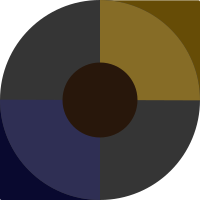
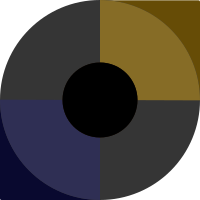
*** UPDATED *** general updates to website

Changed region(s): [[0.3, 0.3, 0.69, 0.69]]

diff --git a/php/dbm_functions.php b/php/dbm_functions.php
@@ -5,13 +5,13 @@
  * Purpose:		Function to dymamically fill in page related meta data
  * Author:		Mark Fletcher
  * Date:			27.11.2018
- * 
- * Input:			
+ *
+ * Input:
  * 	$_SERVER['PHP_SELF'] - current page URL
- * 
- * Output:		
+ *
+ * Output:
  * 	pageName
- * 
+ *
  * Notes:
  *
  * ==================================================================
@@ -20,11 +20,11 @@ function metaFill($filter) {
 	global $pdo;
 	// use pageName() function to set $pageName
 	$pageName = pageName($_SERVER['PHP_SELF']);
-	
-	// MySQL query string 
+
+	// MySQL query string
 	$sql = "SELECT id, title, pageName, description FROM dbm_metatext WHERE pageName = '".$pageName."'";
-				
-	// send query to database		
+
+	// send query to database
 	if ($result = $pdo->query($sql)) :
 		// iterate over result array
 		while($row = $result->fetch()) :
@@ -40,20 +40,20 @@ function metaFill($filter) {
  * Purpose:		function to sitmap list
  * Author:		Mark Fletcher
  * Date:			06.08.2019
- * 
- * Input:			
+ *
+ * Input:
  * $data	- a selected data array
- * 
- * Output:		
+ *
+ * Output:
  * 	Returns $list - a fully constructed HTML list
- * 
+ *
  * Notes:
  *
  * ==================================================================
 */
 function create_serviceslist($data) {
 	$services ='';
-	foreach($data as $service) { 	
+	foreach($data as $service) {
   	$services .= '<li>'.$service.'</li>'.PHP_EOL;
 	}
   return $services;
@@ -65,15 +65,15 @@ function create_serviceslist($data) {
  * Purpose:		function to create navbars
  * Author:		Mark Fletcher
  * Date:			19.04.2019
- * 
- * Input:			
+ *
+ * Input:
  * $navbarData	- a selected data array
  * $separator	- e.g. '|', ' ', ':'
- * 
- * Output:		
+ *
+ * Output:
  * 	Returns $newNavbar - a fully constructed navigation bar string
  *											 with current page highlighting
- * 
+ *
  * Notes:
  *
  * ==================================================================
@@ -113,7 +113,7 @@ function create_navbar($navbarData, $separator) {
   		$newNavbar .= '<a href="'.$url.'" title="link to '.strtolower($link).' page">'.$navLink.'</a>'.PHP_EOL;
     }
   }
-  return $newNavbar; 
+  return $newNavbar;
 }
 
 /*
@@ -122,20 +122,20 @@ function create_navbar($navbarData, $separator) {
  * Purpose:		function to sitmap list
  * Author:		Mark Fletcher
  * Date:			06.08.2019
- * 
- * Input:			
+ *
+ * Input:
  * $data	- a selected data array
- * 
- * Output:		
+ *
+ * Output:
  * 	Returns $list - a fully constructed HTML list
- * 
+ *
  * Notes:
  *
  * ==================================================================
 */
 function create_sitemap($data) {
 	$sitemap ='';
-	foreach($data as $page => $url) { 	
+	foreach($data as $page => $url) {
   	$sitemap .= '<li><a href="'.$url.'" title="open '.$page.' page">'.$page.' page</a></li>'.PHP_EOL;
 	}
   return $sitemap;
@@ -153,7 +153,7 @@ function create_sitemap($data) {
  *
  * Output:
  * 	pageName
- * 
+ *
  * Notes:
  *
  * ==================================================================
@@ -195,6 +195,31 @@ function dateStamp($date) {
 }
 
 /*
+ *******************************************************************************
+ * File:		copyright()
+ * Purpose:	function to create copyright notice for webpages
+ *
+ * Author:	Mark Fletcher
+ * Date:		18.04.2018
+ *
+ * Notes:
+ *
+ * Revision:
+ *		18.04.2018	1st issue.
+ *
+ *******************************************************************************
+*/
+//create a copyright notice
+function copyright($company, $year) {
+	if ($year == date('Y')) {
+		$date = $year;
+	} else {
+		$date = $year.' - '.date('Y');
+	}
+	echo '&copy; '.$date.' '.$company.'. All rights reserved.';
+}
+
+/*
  * ===================================================================
  * Function:	pricing()
  * Purpose:		Create dynamic pricing from dbmServices database table
@@ -203,10 +228,10 @@ function dateStamp($date) {
  *
  * Input:
  * 	$pricingArr - database data from dbmServices table
- * 
+ *
  * Output:
  * 	Returns pricing blocks
- * 
+ *
  * Notes:
  *
  * ==================================================================
@@ -227,13 +252,13 @@ function pricing($pricingArr) {
  * Purpose:		Check budget value and display 'N/A' if value is zero
  * Author:		Mark Fletcher
  * Date:			15.05.2018
- * 
- * Input:			
- * 	$value - 'budget' data from caseStudies table 
- * 
- * Output:		
+ *
+ * Input:
+ * 	$value - 'budget' data from caseStudies table
+ *
+ * Output:
  * 	$budget
- * 
+ *
  * Notes:
  *
  * ==================================================================
@@ -253,13 +278,13 @@ function budgetZero($value) {
  * Purpose:		Convert date to 'dd-mm-yyyyy' format
  * Author:		Mark Fletcher
  * Date:			15.05.2018
- * 
- * Input:			
- * 	$dbDate - 'date' data from caseStudies table 
- * 
- * Output:		
+ *
+ * Input:
+ * 	$dbDate - 'date' data from caseStudies table
+ *
+ * Output:
  * 	$newDate
- * 
+ *
  * Notes:
  *
  * ==================================================================
@@ -276,13 +301,13 @@ function convertDate($dbDate) {
  * Purpose:		Convert date to 'dd-mm-yyyyy' format
  * Author:		Mark Fletcher
  * Date:			15.05.2018
- * 
- * Input:			
- * 	$dbDate - 'date' data from caseStudies table 
- * 
- * Output:		
+ *
+ * Input:
+ * 	$dbDate - 'date' data from caseStudies table
+ *
+ * Output:
  * 	$newDate
- * 
+ *
  * Notes:
  *
  * ==================================================================

diff --git a/footer.php b/footer.php
@@ -3,18 +3,18 @@
  *******************************************************************************
  * File:		footer.php
  * Purpose:	General footer template for dbm website
- *						
+ *
  * Author:	Mark Fletcher
  * Date:		28.09.2011
- *  
- * Notes: 
+ *
+ * Notes:
  *
  * Revision:
  *		31.01.2012	1st issue.
  *		03.10.2012	Underscores removed from 'ID' names.
  *		19.11.2012	php script added to create dynamic copyright year
  *		22.11.2018	dbmNotice <div> moved to dbmNotice.php
- *		30.12.2019	ftrNavbar HTML removed. New create_navbar() function and 
+ *		30.12.2019	ftrNavbar HTML removed. New create_navbar() function and
  *								ftrNavigation div added
  *
  *******************************************************************************
@@ -33,7 +33,7 @@ website copyright &copy; mark fletcher <?php echo date('Y'); ?>. all rights rese
 </div><!-- end #ftrNavBar -->
 
 <div id ="ftrButtons">
-<?php ftrButtons($socialMedia, '#28170b', '#664C06'); ?>
+<?php ftrButtons($socialMedia, '#000', '#664C06'); ?>
 </div><!-- end #ftrButtons -->
 </footer><!-- end footer -->
 

diff --git a/php/db_login.php b/php/db_login.php
@@ -5,17 +5,17 @@
  * Purpose: define constants for database login parameters.
  * Author:	Mark Fletcher
  * Date:		19/02/2014
- *  
- * Notes: 
+ *
+ * Notes:
  *
  * Revision:
  *		24.02.2014		1st issue.
  *
  * ========================================================================
- */
-	// define constants for MySQL login
-	define('AUTH_HOST', 'localhost');
-	define('AUTH_USER', 'designs4_user');
-	define('AUTH_PWD', 'th1nL1zzy');
-	define('AUTH_DB', 'designs4_dbm');
+*/
+// define constants for MySQL login
+define('AUTH_HOST', 'localhost');
+define('AUTH_USER', 'designs4_user');
+define('AUTH_PWD', 'th1nL1zzy');
+define('AUTH_DB', 'designs4_dbm');
 ?>
